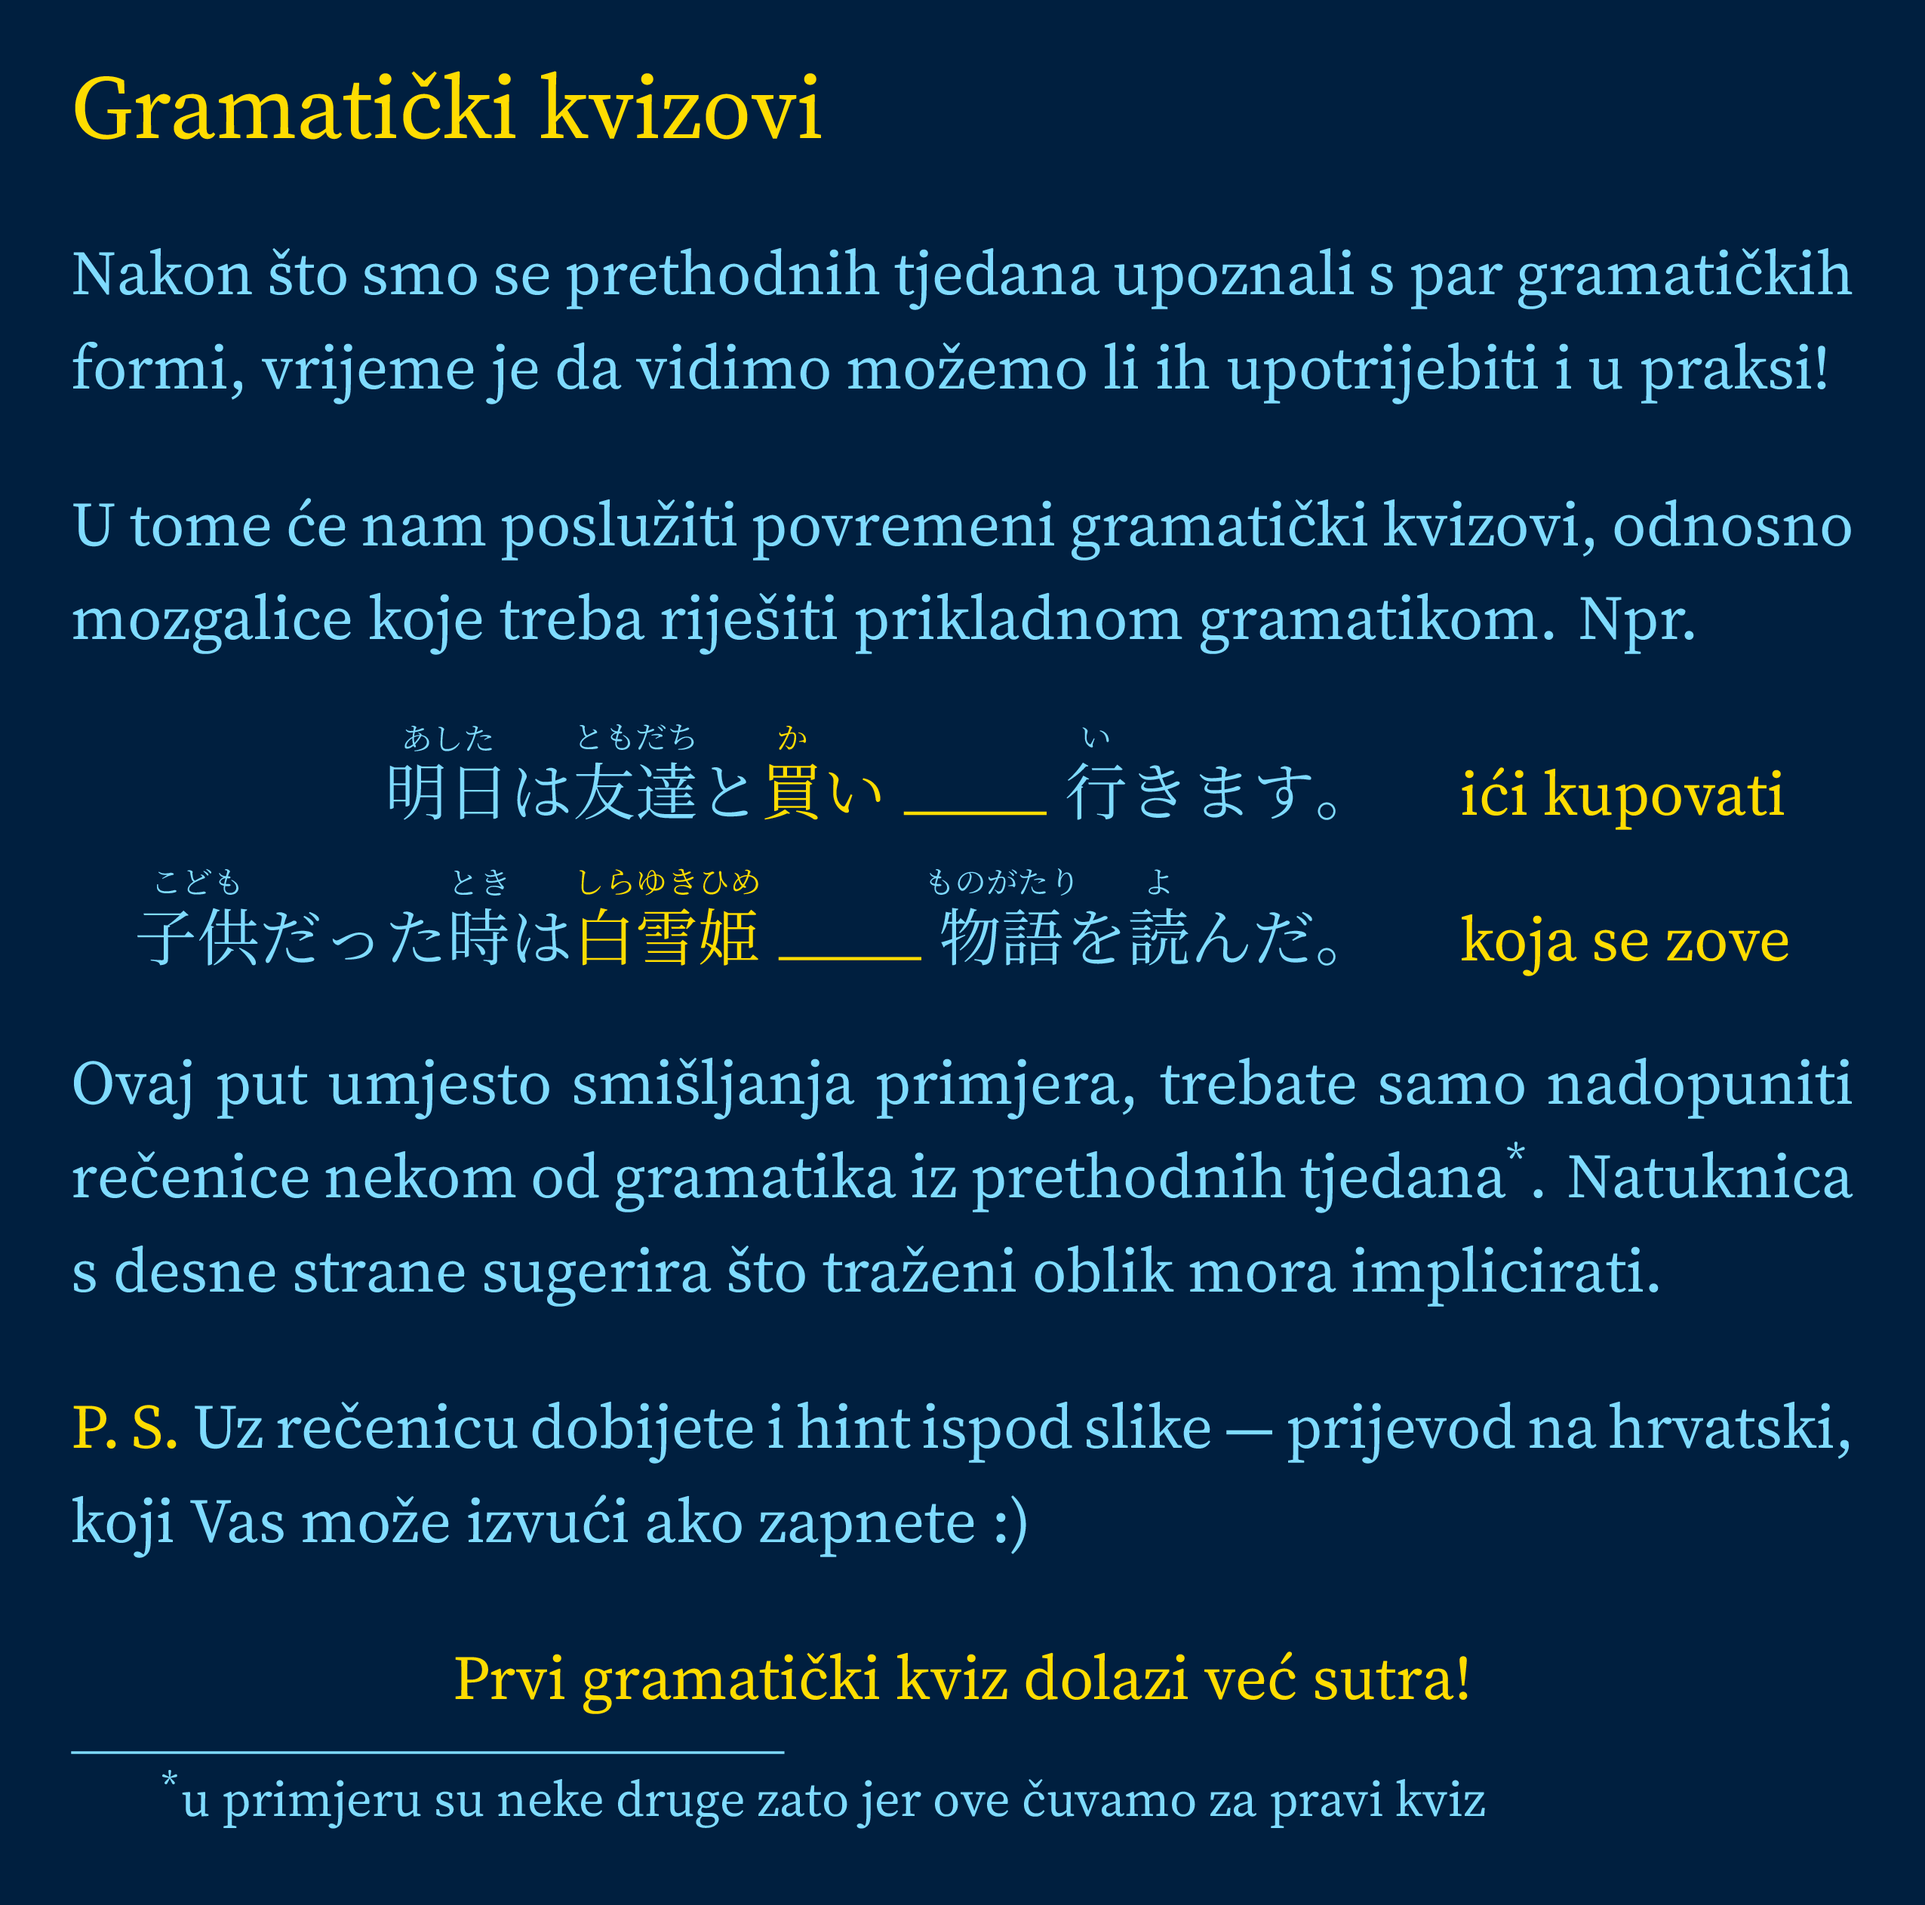
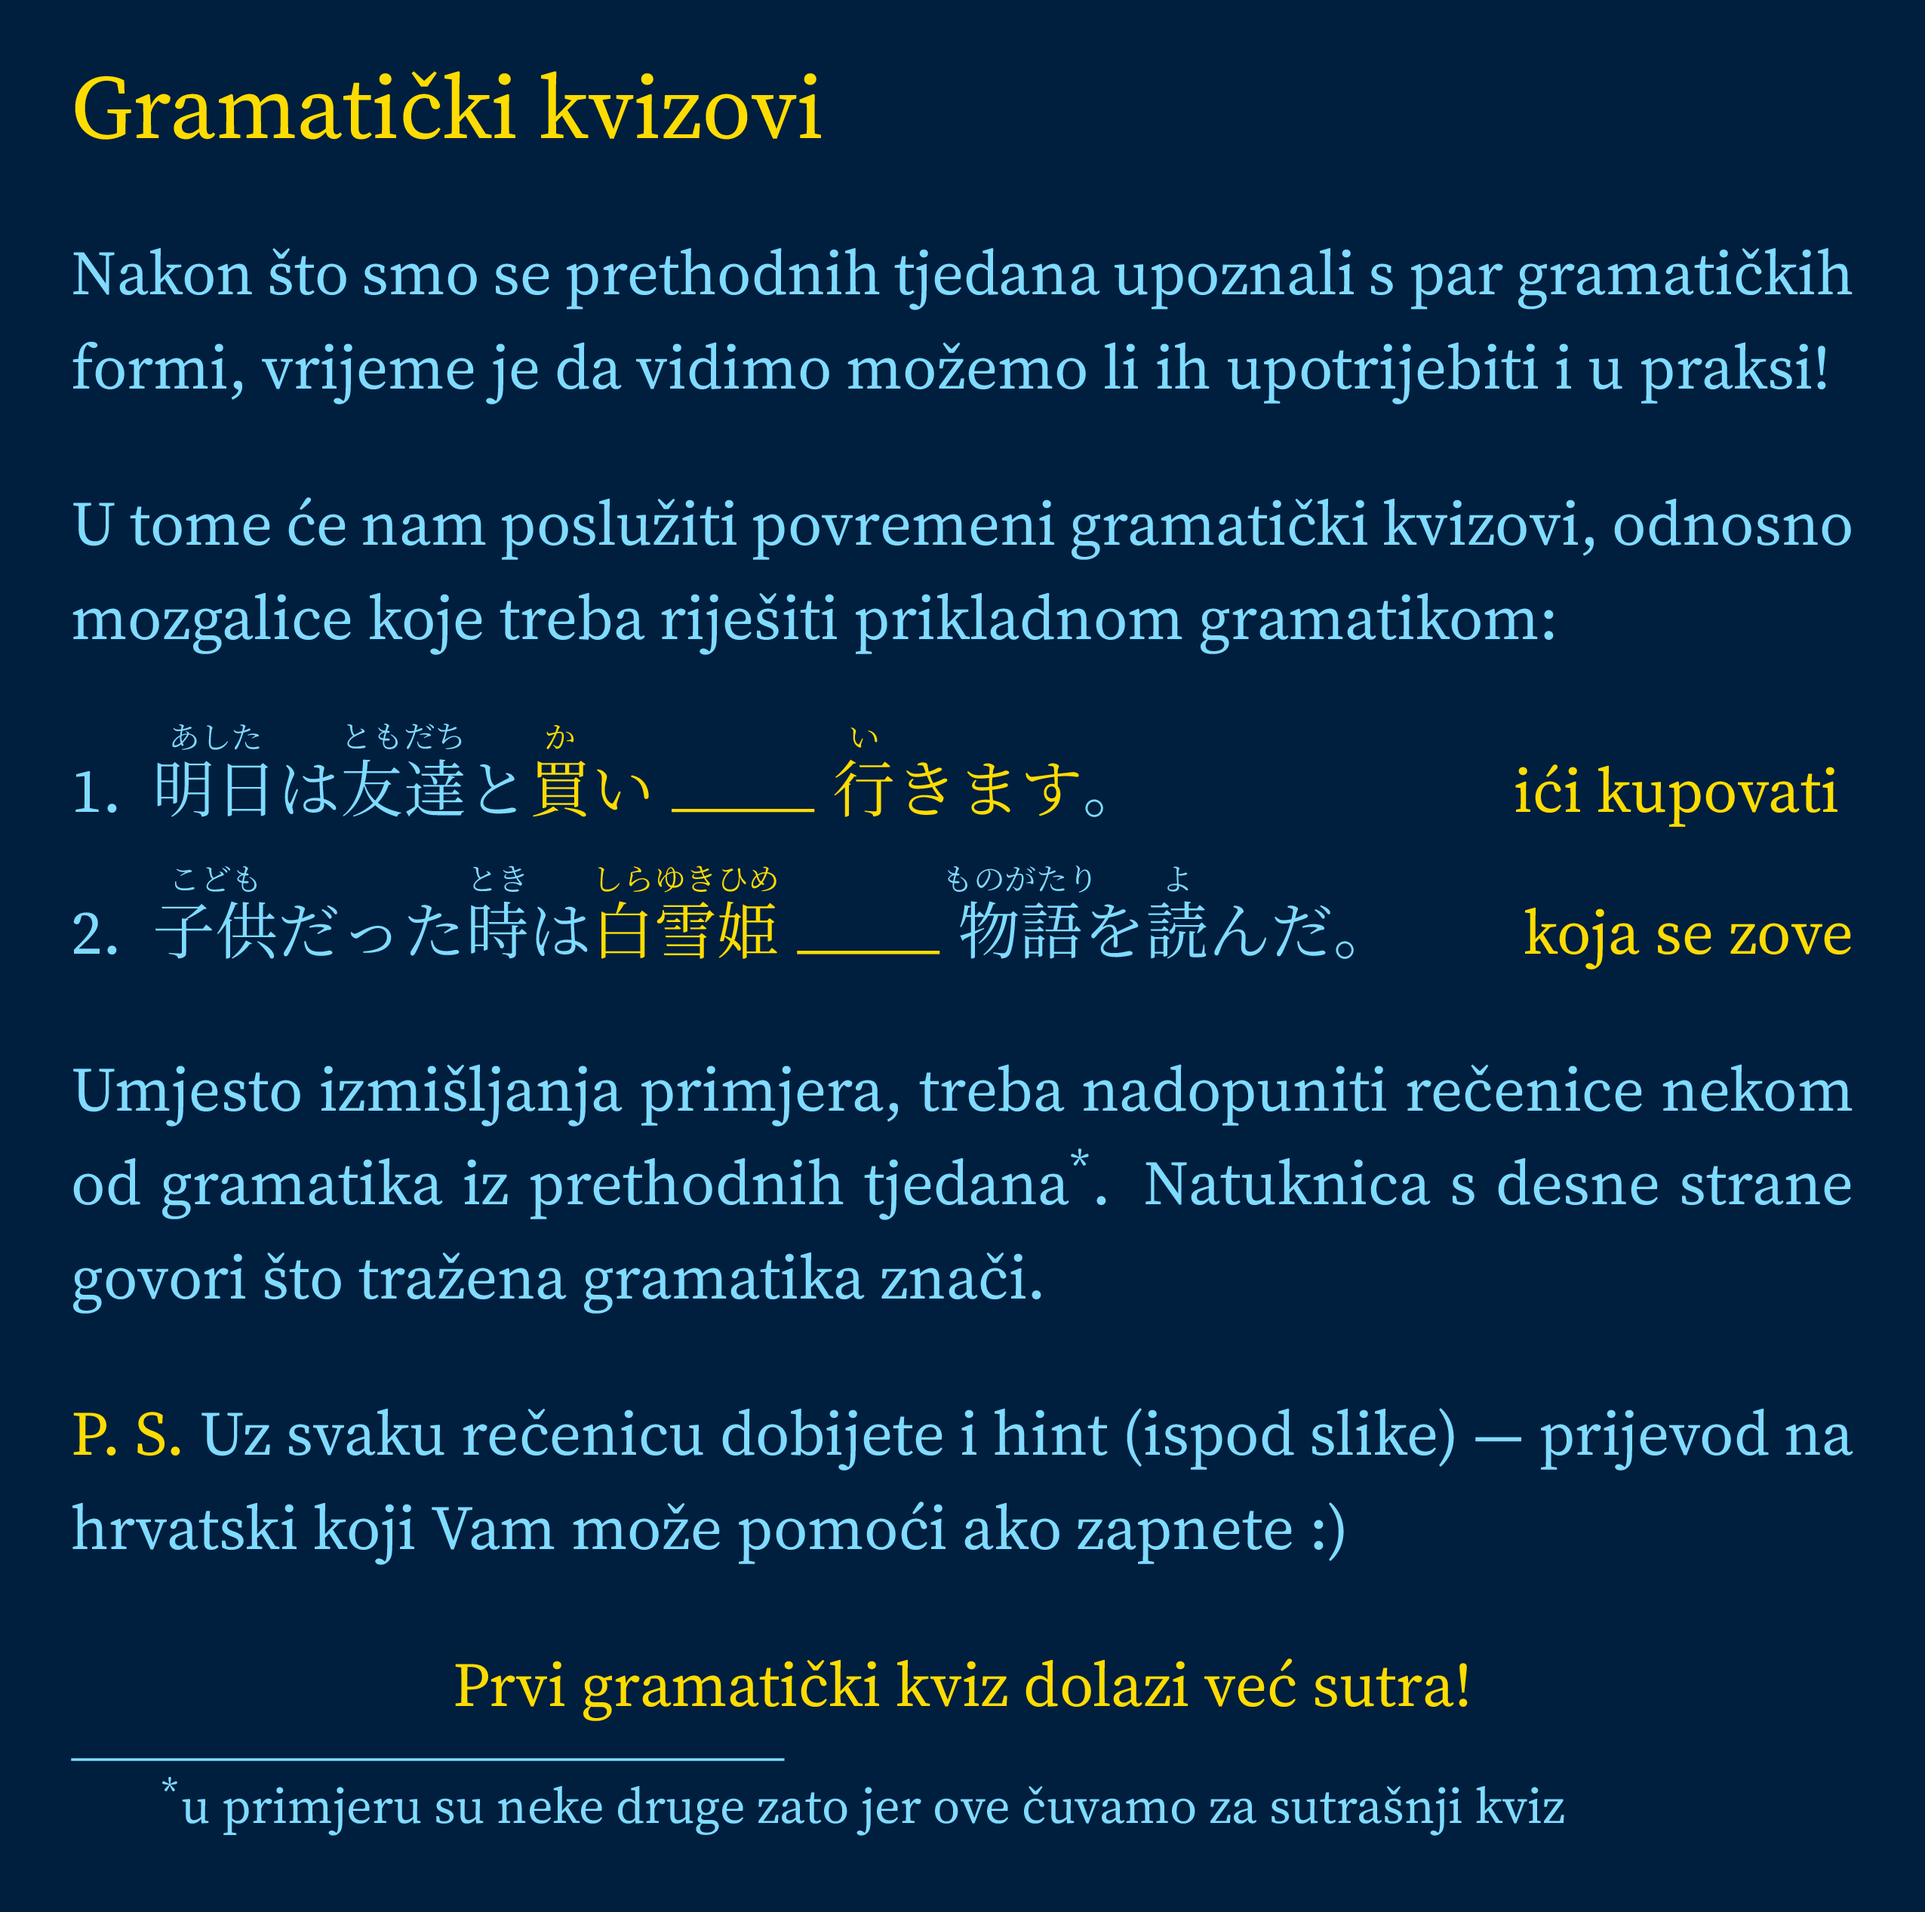
m

diff --git a/poruke/prijazna_poruka_6.tex b/poruke/prijazna_poruka_6.tex
@@ -10,20 +10,18 @@
 	
 	Nakon što smo se prethodnih tjedana upoznali s par gramatičkih formi, vrijeme je da vidimo možemo li ih upotrijebiti i u praksi!\vspace{1em}
 	
-	U tome će nam poslužiti povremeni gramatički kvizovi, odnosno mozgalice koje treba riješiti prikladnom gramatikom. Npr.\vspace{1em}
-	\begin{center}
-		\begin{tabular}{r@{\hspace{2em}}l}
-		\f{明日}{あした}は\f{友達}{ともだち}と\e{\f{買}{か}い\ansline{}}\f{行}{い}きます。 & \e{ići kupovati} \br
-		\f{子供}{こども}だった\f{時}{とき}は\e{\f{白雪姫}{しらゆきひめ}\ansline{}}\f{物語}{ものがたり}を\f{読}{よ}んだ。 & \e{koja se zove} \\
-		\end{tabular}
-	\end{center}\vspace{1em}
+	U tome će nam poslužiti povremeni gramatički kvizovi, odnosno mozgalice koje treba riješiti prikladnom gramatikom:\vspace{1em}
+	\begin{enumerate}\singlespacing
+		\item \f{明日}{あした}は\f{友達}{ともだち}と\e{\f{買}{か}い\ansline{}\f{行}{い}きます}。 \hfill \e{ići kupovati} \vspace{0.5em}
+		\item \f{子供}{こども}だった\f{時}{とき}は\e{\f{白雪姫}{しらゆきひめ}\ansline{}}\f{物語}{ものがたり}を\f{読}{よ}んだ。 \hfill \e{koja se zove}
+	\end{enumerate}\vspace{1em}
 	
-	Ovaj put umjesto smišljanja primjera, trebate samo nadopuniti rečenice nekom od gramatika iz prethodnih tjedana\textsuperscript{*}\footnotetext{\textsuperscript{*}u primjeru su neke druge zato jer ove čuvamo za pravi kviz}.
-%	Ovaj put umjesto da sami pišete primjere upotrebljavajući zadane gramatičke forme, imate skoro gotovu rečenicu koju trebate nadopuniti odgovarajućom gramatikom.
-	Natuknica s desne strane sugerira što traženi oblik mora implicirati.
+	Umjesto izmišljanja primjera, treba nadopuniti rečenice nekom od gramatika iz prethodnih tjedana\textsuperscript{*}\footnotetext{\textsuperscript{*}u primjeru su neke druge zato jer ove čuvamo za sutrašnji kviz}.
+	Natuknica s desne strane govori što tražena gramatika znači.
+%	Ponekad će biti moguće i više od jednog odgovora --- prihvaćaju se svi koji štimaju po smislu i gramatici.
 	\vspace{1em}
 	
-	\e{P. S.} Uz rečenicu dobijete i hint ispod slike --- prijevod na hrvatski, koji Vas može izvući ako zapnete :)\vspace{1em}
+	\e{P. S.} Uz svaku rečenicu dobijete i hint (ispod slike) --- prijevod na hrvatski koji Vam može pomoći ako zapnete :)\vspace{1em}
 	\begin{center}
 		\e{Prvi gramatički kviz dolazi već sutra!}
 	\end{center}
